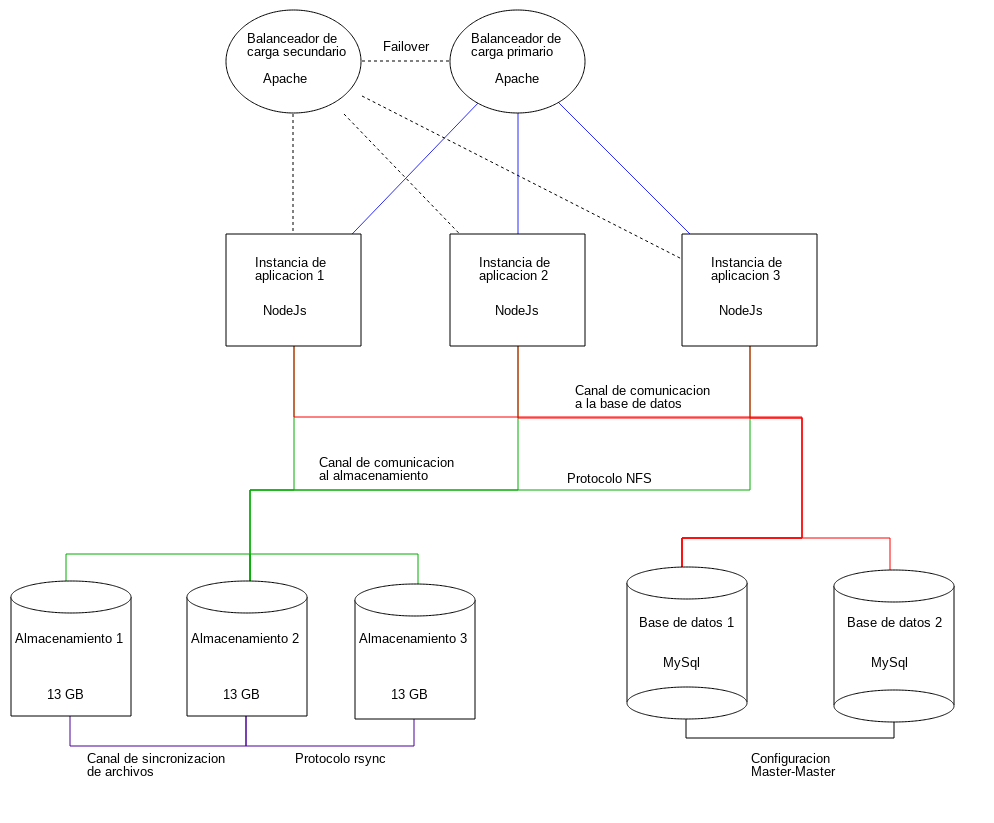
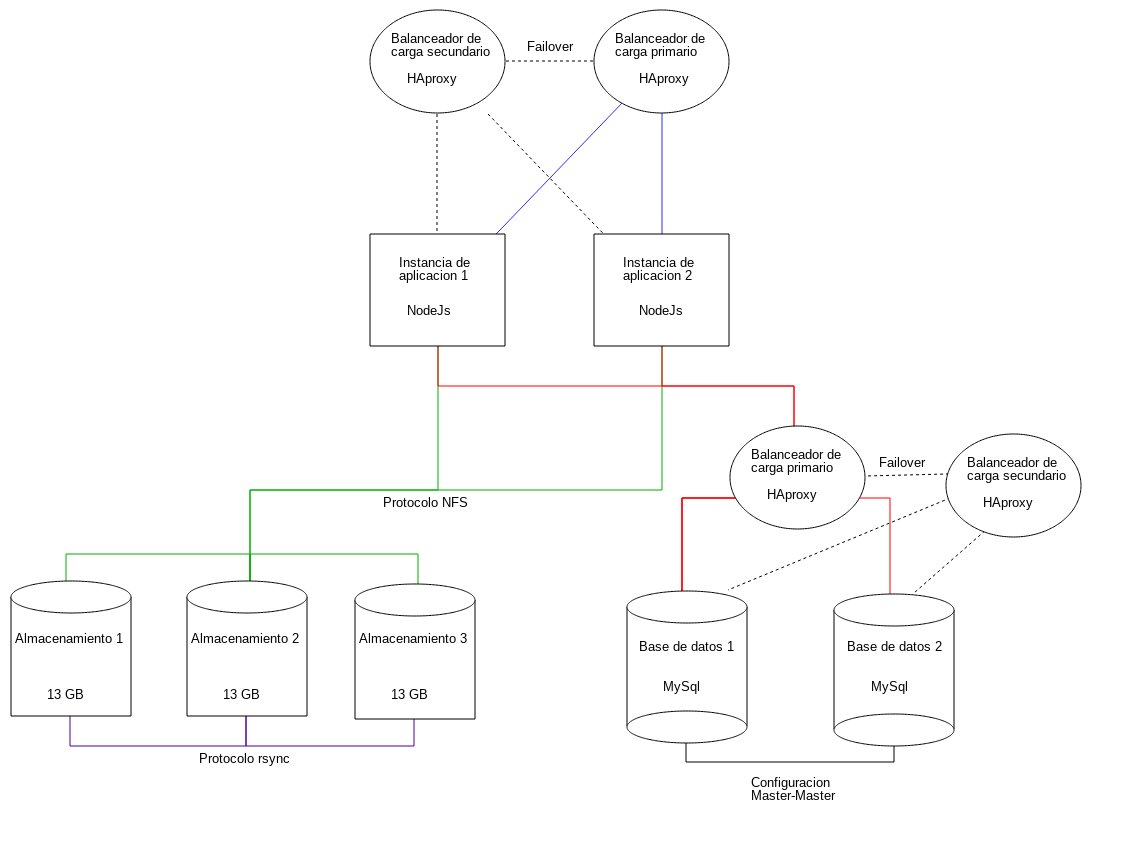
Adding new documentation

diff --git a/documents/Document2.md b/documents/Document2.md
@@ -352,9 +352,9 @@ Finalmente se encontró que algunas de las mejores prácticas para este atributo
 
 **Artefacto:** Sistema de archivos
 
-**Ambiente:** Nodo de almacenamiento sin espacio disponible
+**Ambiente:** Nodo de almacenamiento sin conexion de red
 
-**Respuesta:** Nodo de aplicación guarda información en otro nodo
+**Respuesta:** Nodo de aplicación guarda información en su nodo de respaldo
 
 **Medida de respuesta:** La aplicación mantiene su funcionamiento sin pérdida de datos
 
@@ -413,11 +413,34 @@ Finalmente se encontró que algunas de las mejores prácticas para este atributo
 
 ## Patrones de arquitectura, best practices, tacticas y herramientas:
 
-Los patrones de arquitectura que serán implementados en el proyecto 2 serán un Failover para los balanceadores, una estructura redundante de bases de MySql en configuración Master-Master que permite tener disponibilidad y un cierto grado de consistencia, por último se utilizará replicación de datos en los nodos de almacenamiento para garantizar disponibilidad y particionamiento ya que se considera que las imágenes no son datos sensibles que deben tener un alto grado de consistencia.
+Los patrones de arquitectura que serán implementados en el proyecto 2 serán un
+Failover para los balanceadores, una estructura redundante de bases de MySql en
+configuración Master-Master que permite tener disponibilidad y un cierto grado
+de consistencia, por último se utilizará replicación de datos en los nodos de
+almacenamiento para garantizar disponibilidad y particionamiento ya que se
+considera que las imágenes no son datos sensibles que deben tener un alto grado
+de consistencia.
 
-Las best practices implementadas son stateless sessions gracias a una implementación basada en cookies, aislamiento de nodos que no respondan al monitoreo del balanceador de cargas, llamadas asincrónicas en los servicios que se le proporcionan al cliente, implementación de una arquitectura simple que facilite la extensibilidad y mantenibilidad del código de la aplicación y aislamiento de la lógica de la aplicación de un servidor en particular.
+Las best practices implementadas son stateless sessions gracias a una
+implementación basada en cookies, aislamiento de nodos que no respondan al
+monitoreo del balanceador de cargas, llamadas asincrónicas en los servicios que
+se le proporcionan al cliente, implementación de una arquitectura simple que
+facilite la extensibilidad y mantenibilidad del código de la aplicación y
+aislamiento de la lógica de la aplicación de un servidor en particular.
 
-Además de las herramientas mencionadas anteriormente se piensa utilizar el protocolo rsync para mantener una copia de seguridad de los archivos en los nodos de almacenamiento y se utilizar el sistema de archivos distribuido NFS para acceder a los archivos almacenados debido a la transparencia y facilidad que permitía a nivel de la aplicación web.
+Además de las herramientas mencionadas anteriormente se piensa utilizar el
+protocolo rsync para mantener una copia de seguridad de los archivos en los
+nodos de almacenamiento y se utilizar el sistema de archivos distribuido NFS
+para acceder a los archivos almacenados debido a la transparencia y facilidad
+que permitía a nivel de la aplicación web.
+
+Se planea hacer uso de Corosync y pacemaker para el monitoreo e implementación
+del failover, esto debido a que permiten mantener un monitoreo constante sobre
+los balanceadores, la aplicación y las bases de datos. Además de contar con un
+sistema de manejo fácil y eficiente como lo es la herramienta pcs, la cual
+permite ejecutar comandos en todos los nodos del cluster de manera simultánea,
+optimizando el tiempo de configuración y minimizando complicaciones a
+la hora de realizar instalaciones o revisiones de los recursos.
 
 ---
 

diff --git a/documents/Document1.md b/documents/Document1.md
@@ -27,4 +27,20 @@ Aplicación web de gestión de imágenes la cual soporta bases de datos que perm
 
 ###Detalles tecnicos de gestion de contenidos:
 
-Para realizar la gestión de archivos se hace uso de una librería para express llamada _“Express-fileupload”_ una vez el archivo se encuentra en el servidor este es almacenado en una carpeta específica para cada usuario, esta distribución nos permite usar múltiples servidores para el almacenamiento permitiendo la escalabilidad de la aplicación, para la obtención de imágenes por búsqueda se llama un método get el cual después de verificar el nombre de usuario y los permisos requeridos retorna todas las imágenes que concuerden con los terminos de busqueda del usuario siempre en cuando este tenga los permisos requeridos, finalmente estas imágenes se retornan dentro del template.
+Para la implementación de la gestión de contenidos se hizo uso del paquete
+_“Express-fileupload”_, este paquete permite recibir las imágenes en el servidor
+y almacenarlas en una ubicación temporal mientras son asignadas a uno de los
+servidores de almacenamiento. Dichos servidores permiten guardar la información
+de los usuarios de manera particionada para ofrecer tolerancia en el caso
+de que se presente algún fallo. Adicional a esto, cada servidor está encargado de
+mantener el respaldo de uno de los otros servidores de almacenamiento para garantizar
+la disponibilidad de información con el mayor grado de certeza posible. Es importante
+mencionar que debido a la implementación del particionamiento y la disponibilidad
+no fue posible implementar consistencia en los datos, sin embargo este aspecto
+fue considerado como no vital debido a la naturaleza de la aplicación.
+
+Para la lectura de la información se hace uso de los registros creados en una
+base de datos MySql la cual retorna el servidor de almacenamiento en la que se
+encuentra la imagen solicitada y retorna dicha información en el template HTML
+para permitirle al cliente acceder a dicha imagen.
+

diff --git a/README.md b/README.md
@@ -479,46 +479,3 @@ Configuracion de sincronizacion de archivos
     $ sudo env PATH=$PATH:/usr/bin /usr/lib/node_modules/pm2/bin/pm2 startup systemd -u asalgad2 --hp /home/asalgad2
     $ pm2 start app.js
     $ pm2 save
-
----
-
-# Proyecto 2
-
-## Definición del Equipo, proyecto y aplicación
-
-### Miembros del equipo y asignación:
-
-* QA1:    Disponibilidad   Estudiante:    Alejandro Salgado
-* QA2:    Rendimiento      Estudiante:    Luis Alfredo Gallego
-* QA3:    Seguridad        Estudiante:    Jose Luis Alvarez
-
-### Selección de aplicación:
-
-Se trabajará sobre _“Image manager”_ aplicación desarrollada en el proyecto 1
-por Alejandro Salgado.
-
-### Descripción de la aplicación
-
-Aplicación web de gestión de imágenes la cual soporta bases de datos que
-permiten la creación y manejo de perfiles de usuario al igual que creación y
-manejo de archivos de imágenes con opciones de privacidad.
-
-### Requisitos Funcionales
-
-1. Subir imagen.
-2. Buscar imagen por parte del título
-3. Borrar artículo por título de imagen
-4. Listar las diferentes imágenes
-5. Compartir y publicar imagenes
-
-### Detalles tecnicos de gestion de contenidos:
-
-Para realizar la gestión de archivos se hace uso de una librería para express
-llamada _“Express-fileupload”_ una vez el archivo se encuentra en el servidor
-este es almacenado en una carpeta específica para cada usuario, esta
-distribución nos permite usar múltiples servidores para el almacenamiento
-permitiendo la escalabilidad de la aplicación, para la obtención de imágenes
-por búsqueda se llama un método get el cual después de verificar el nombre de
-usuario y los permisos requeridos retorna todas las imágenes que concuerden con
-los terminos de busqueda del usuario siempre en cuando este tenga los permisos
-requeridos, finalmente estas imágenes se retornan dentro del template.

diff --git a/documents/Document3.md b/documents/Document3.md
@@ -1,0 +1,53 @@
+# Miembros del equipo
+
+* Luis Alfredo Gallego Montoya - lgalle17@eafit.educo
+* Jose Luis Alvarez Herrera - jalvar53@eafit.educo
+* Alejandro Salgado Gomez - asalgad2@eafit.educo
+
+# Diseño de la arquitectura de la aplicación
+
+## Tecnologias de desarrollo
+
+* Nodejs
+* HAproxy
+* MySql
+* NFS
+* Corosync
+* Pacemaker
+* Pcs
+* Rsync
+* Git
+* Pm2
+
+## Arquitectura
+
+![](https://github.com/AlejandroSalgadoG/Web/blob/master/documents/img/general-architecture-view.png "Vista Arquitectura General")
+
+## Informacion de uso
+
+* Url repositorio: https://github.com/AlejandroSalgadoG/Web
+* Url ejecucion: http://10.131.137.145
+
+## Implementacion y pruebas
+
+### Disponibilidad
+
+Para este atributo de calidad las modificaciones al código fuente no fueron muy
+trascendentales, debido a que los balanceadores manejan tanto la conexión de clientes
+como las peticiones de bases de datos los únicos cambios que fueron necesarios en
+esta nueva implementación de la aplicación fue la consulta de las imágenes en las
+carpetas de NFS y el desarrollo de las técnicas para detectar su disponibilidad.
+
+Las pruebas que se realizaron fueron:
+
+* Apagar el balanceador de carga principal
+* Apagar el servidor web que tiene la conexión del cliente
+* Apagar una base de datos
+* Apagar un servidor NFS
+* reiniciar las máquinas
+
+En todos los casos la aplicación continuó su funcionamiento sin presentar problemas
+mientras que quede al menos un servidor que provea cada funcionalidad, excepto en el
+caso de falla en el sistema de archivos donde se presenta un deterioro en el tiempo
+de respuesta de imágenes debido al tiempo que toma detectar que el servidor no
+está disponible para conmutar a su respaldo.
